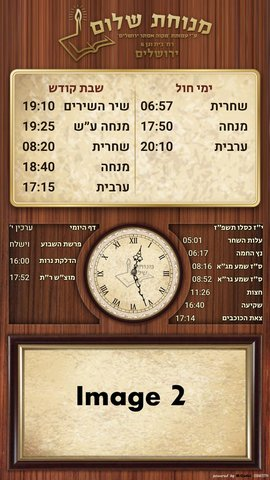
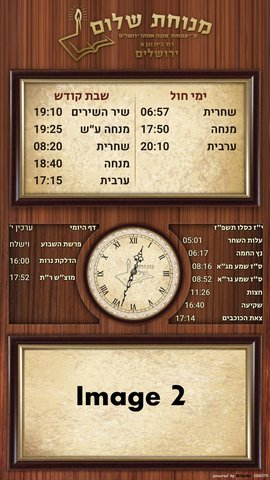
feat(display): frame the prayer lists like the slide frame
The owner preferred the slide frame's wooden moulding to the plain gold
frame: it is cut from the background and drawn as a border image, so
its corners keep their shape at any size.

Changed region(s): [[0.0296, 0.125, 0.9778, 0.4375], [0.4741, 0.5, 0.5333, 0.625], [0.4444, 0.5938, 0.4741, 0.6562]]

diff --git a/apps/web/src/layouts/classic-new/ClassicNew.tsx b/apps/web/src/layouts/classic-new/ClassicNew.tsx
@@ -14,7 +14,7 @@ import {
 } from '../classic-portrait/placements.ts';
 import type { LayoutProps } from '../define-layout.tsx';
 import background from './assets/background.jpg';
-import parchment from './assets/parchment.jpg';
+import frame from './assets/frame.jpg';
 import type { ClassicNewOptions } from './options.ts';
 import './classic-new.css';
 
@@ -26,13 +26,20 @@ function timeOf(zman: ZmanSnapshot | null): string {
 
 /**
  * The new classic look: v1's wood, clock and slide frame, with the new logo engraved at the
- * top and both prayer lists in one gold frame where v1 had two ornate ones. Same 720 × 1280
+ * top and both prayer lists in one frame, moulded like the slide frame, where v1 had two. Same 720 × 1280
  * surface as the classic theme, whose panel and clock positions it keeps.
  */
 const LOGO = { top: 12, height: 152 } as const;
 /** Where v1's two frames stood, side by side. */
 const FRAME = { left: 26, top: 184, width: 668, height: 368 } as const;
-const FRAME_PADDING = { x: 26, top: 16, bottom: 18 } as const;
+/**
+ * The slide frame's wooden moulding, cut from the background and drawn as a border image:
+ * its thickness on the surface (v1's 52-58 px at 1080 px wide, times 2/3), then the
+ * matching slices of `frame.jpg`, which is at the background's full size.
+ */
+const BORDER = { top: 37, right: 39, bottom: 35, left: 39 } as const;
+const BORDER_SLICE = { top: 56, right: 58, bottom: 52, left: 58 } as const;
+const FRAME_PADDING = { x: 24, top: 6, bottom: 12 } as const;
 const TITLE_HEIGHT = 50;
 const MAX_ROW_STEP = 54;
 const MAX_FONT_SIZE = 34;
@@ -135,10 +142,17 @@ export function ClassicNew({ state, options }: LayoutProps<ClassicNewOptions>) {
     { key: 'arvit', name: labels.shabbat.arvit, time: timeOf(shabbat.motzeiShabbatArvit) },
   ];
   const rowCount = Math.max(weekday.length, shabbatRows.length, 1);
-  const rowsHeight = FRAME.height - 2 * 7 - FRAME_PADDING.top - FRAME_PADDING.bottom - TITLE_HEIGHT;
+  const rowsHeight =
+    FRAME.height -
+    BORDER.top -
+    BORDER.bottom -
+    FRAME_PADDING.top -
+    FRAME_PADDING.bottom -
+    TITLE_HEIGHT;
   const step = Math.min(MAX_ROW_STEP, rowsHeight / rowCount);
   const fontSize = Math.min(MAX_FONT_SIZE, step * FONT_TO_STEP);
-  const columnWidth = (FRAME.width - 2 * 7 - 2 * FRAME_PADDING.x - DIVIDER_WIDTH) / 2;
+  const columnWidth =
+    (FRAME.width - BORDER.left - BORDER.right - 2 * FRAME_PADDING.x - DIVIDER_WIDTH) / 2;
 
   return (
     <div className="flex h-dvh w-dvw items-center justify-center overflow-hidden bg-black">
@@ -164,11 +178,18 @@ export function ClassicNew({ state, options }: LayoutProps<ClassicNewOptions>) {
           />
         </div>
 
-        <div className="classic-new-frame absolute" style={FRAME}>
+        <div
+          className="classic-new-frame absolute"
+          style={{
+            ...FRAME,
+            borderStyle: 'solid',
+            borderWidth: `${String(BORDER.top)}px ${String(BORDER.right)}px ${String(BORDER.bottom)}px ${String(BORDER.left)}px`,
+            borderImage: `url(${frame}) ${String(BORDER_SLICE.top)} ${String(BORDER_SLICE.right)} ${String(BORDER_SLICE.bottom)} ${String(BORDER_SLICE.left)} fill / 1 / 0 stretch`,
+          }}
+        >
           <div
-            className="classic-new-parchment flex size-full items-start justify-between"
+            className="flex size-full items-start justify-between"
             style={{
-              backgroundImage: `url(${parchment})`,
               padding: `${String(FRAME_PADDING.top)}px ${String(FRAME_PADDING.x)}px ${String(FRAME_PADDING.bottom)}px`,
             }}
           >

diff --git a/apps/web/src/layouts/classic-new/classic-new.css b/apps/web/src/layouts/classic-new/classic-new.css
@@ -20,24 +20,9 @@
   filter: drop-shadow(0 2px 1px #000000b3) drop-shadow(0 0 6px #00000066);
 }
 
-/* A plain gold frame around a parchment panel. */
+/* The slide frame's wooden moulding, around the parchment of the prayer lists. */
 .classic-new-frame {
-  padding: 7px;
-  border-radius: 20px;
-  background: linear-gradient(135deg, #fff0bf, #c9973d 30%, #f6dc8f 50%, #a87628 75%, #f3d98c);
-  box-shadow:
-    0 8px 18px #000000a6,
-    inset 0 0 0 1px #7a531a;
-}
-
-.classic-new-parchment {
-  border-radius: 14px;
-  background-size: cover;
-  box-shadow:
-    inset 0 0 0 2px #b8892f,
-    inset 0 0 0 5px #f8ecc8,
-    inset 0 0 0 6px #b8892f,
-    inset 0 0 26px #8a5f1c55;
+  filter: drop-shadow(0 6px 10px #00000099);
 }
 
 .classic-new-title {
